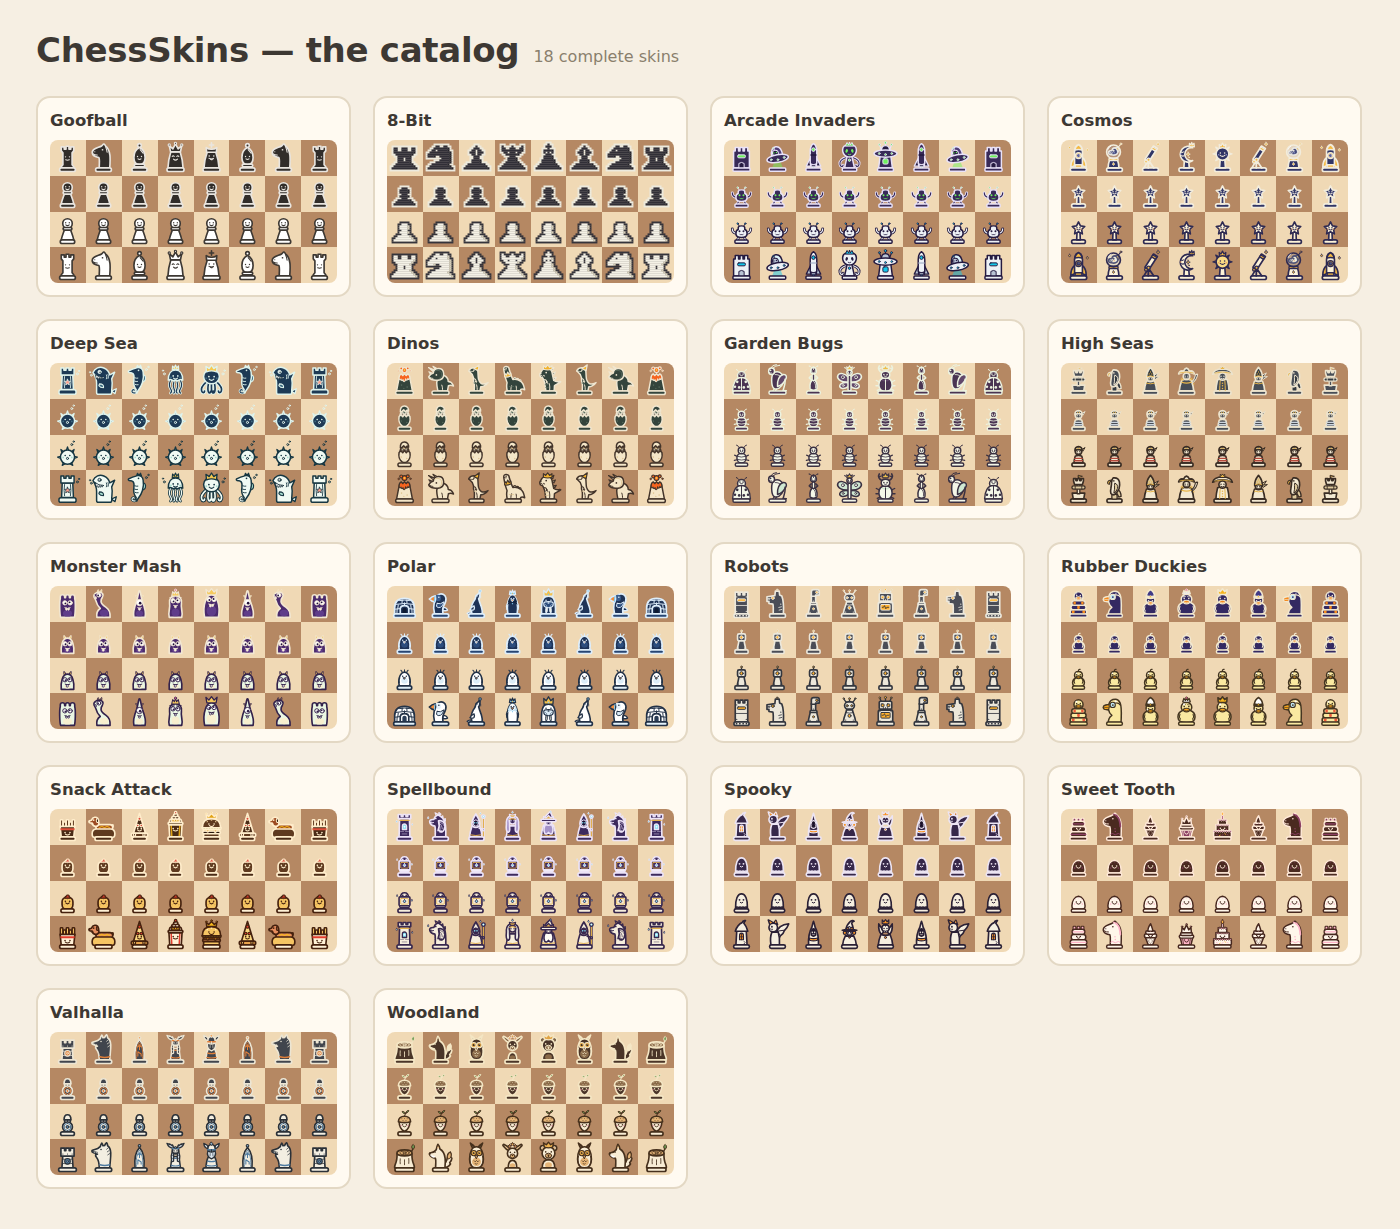
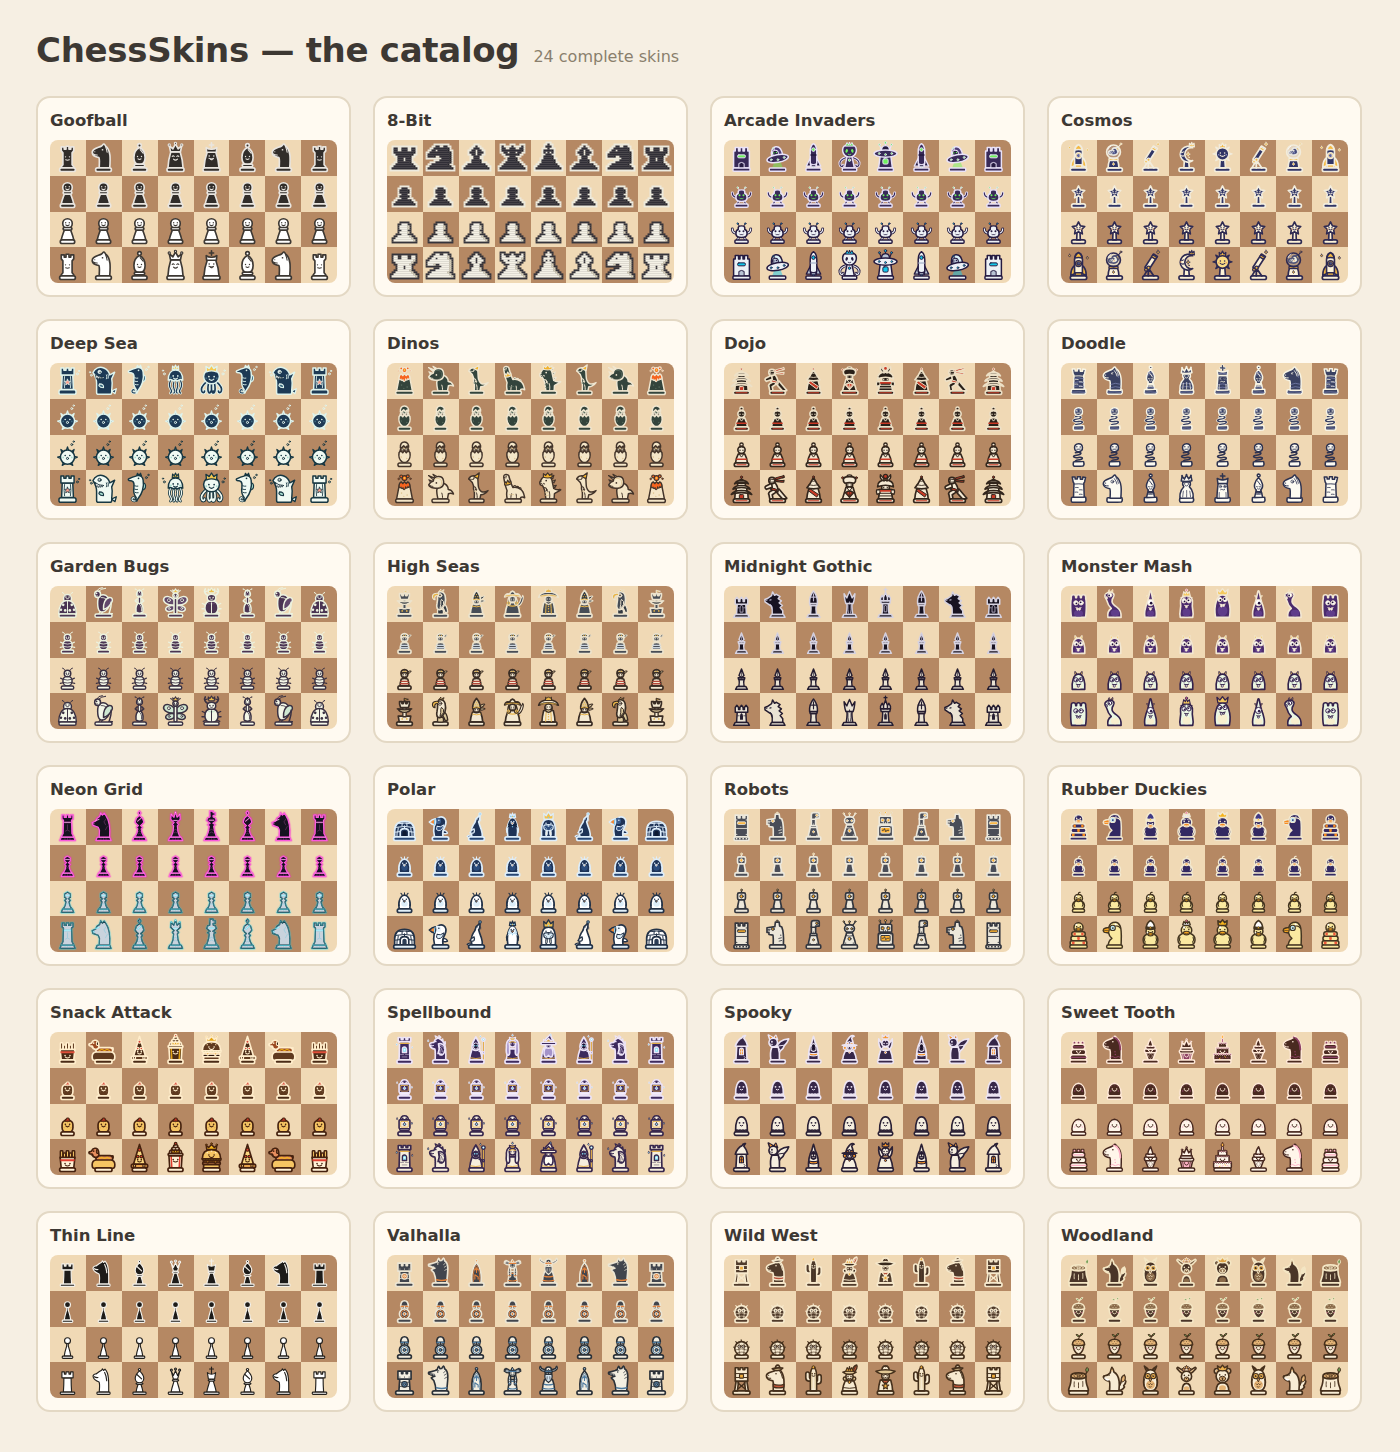
Final catalog: 24 skins, 26 board themes; accurate counts across listing and assets

diff --git a/store/listing.md b/store/listing.md
@@ -14,7 +14,7 @@ package itself. The manifest carries only name, version, description, and icons.
 
 **Summary** (≤132 chars)
 
-> 26 playful piece skins for lichess & chess.com — kittens, robots, pirates, 8-bit. Browse visually, apply instantly, or make your own.
+> 24 playful piece skins + 26 board themes for lichess & chess.com. Browse visually, apply instantly, or design your own with AI.
 
 **Description**
 
@@ -26,14 +26,19 @@ package itself. The manifest carries only name, version, description, and icons.
 > sees nothing unusual. Works in games, puzzles, analysis, studies and the board
 > editor. Your choice syncs across your Chrome profiles.
 >
-> THE CATALOG (26 skins at launch)
+> THE CATALOG (24 skins + 26 board themes at launch)
 >
-> ★ Cute & cuddly — Goofball (the original silly squad), Kittens, Puppies, Woodland,
->   Polar, Critter Royale, Rubber Duckies, Garden Bugs, Deep Sea, Dinos, Monster Mash
+> ★ Cute & cuddly — Goofball (the original silly squad), Woodland, Polar,
+>   Rubber Duckies, Garden Bugs, Deep Sea, Dinos, Monster Mash
 > ★ Delicious — Snack Attack (the knight is a dachshund in a bun), Sweet Tooth
 > ★ Retro & sci-fi — 8-Bit, Arcade Invaders, Robots, Cosmos, Neon Grid
 > ★ Adventure — High Seas, Valhalla, Dojo, Wild West, Spellbound, Spooky
 > ★ For the aesthetes — Thin Line, Midnight Gothic, Doodle
+>
+> BOARD THEMES
+>
+> 26 matching grounds to fight on — walnut, marble, neon grid, sakura, tournament
+> green, midnight and more.
 >
 > MAKE YOUR OWN — NO CODING
 >

diff --git a/README.md b/README.md
@@ -2,7 +2,7 @@
 
 **A visual catalog of playful chess piece skins for [lichess](https://lichess.org) and [chess.com](https://chess.com), delivered as a Chrome extension.**
 
-Tired of the same six silhouettes? ChessSkins swaps your pieces for any of **26 themed sets** — kittens, robots, pirates, 8-bit, rubber duckies, gothic cathedrals and more. Browse the gallery (every skin shown on a real board), click one, and it applies instantly: no page reload, works in games, puzzles, analysis and the board editor, and only you see it. You can even design your own set with Claude or ChatGPT and submit it to the catalog without writing a line of code.
+Tired of the same six silhouettes? ChessSkins swaps your pieces for any of **24 themed sets** (plus 26 board themes) — dinos, robots, pirates, 8-bit, rubber duckies, gothic cathedrals and more. Browse the gallery (every skin shown on a real board), click one, and it applies instantly: no page reload, works in games, puzzles, analysis and the board editor, and only you see it. You can even design your own set with Claude or ChatGPT and submit it to the catalog without writing a line of code.
 
 ![The ChessSkins catalog](docs/catalog.png)
 
